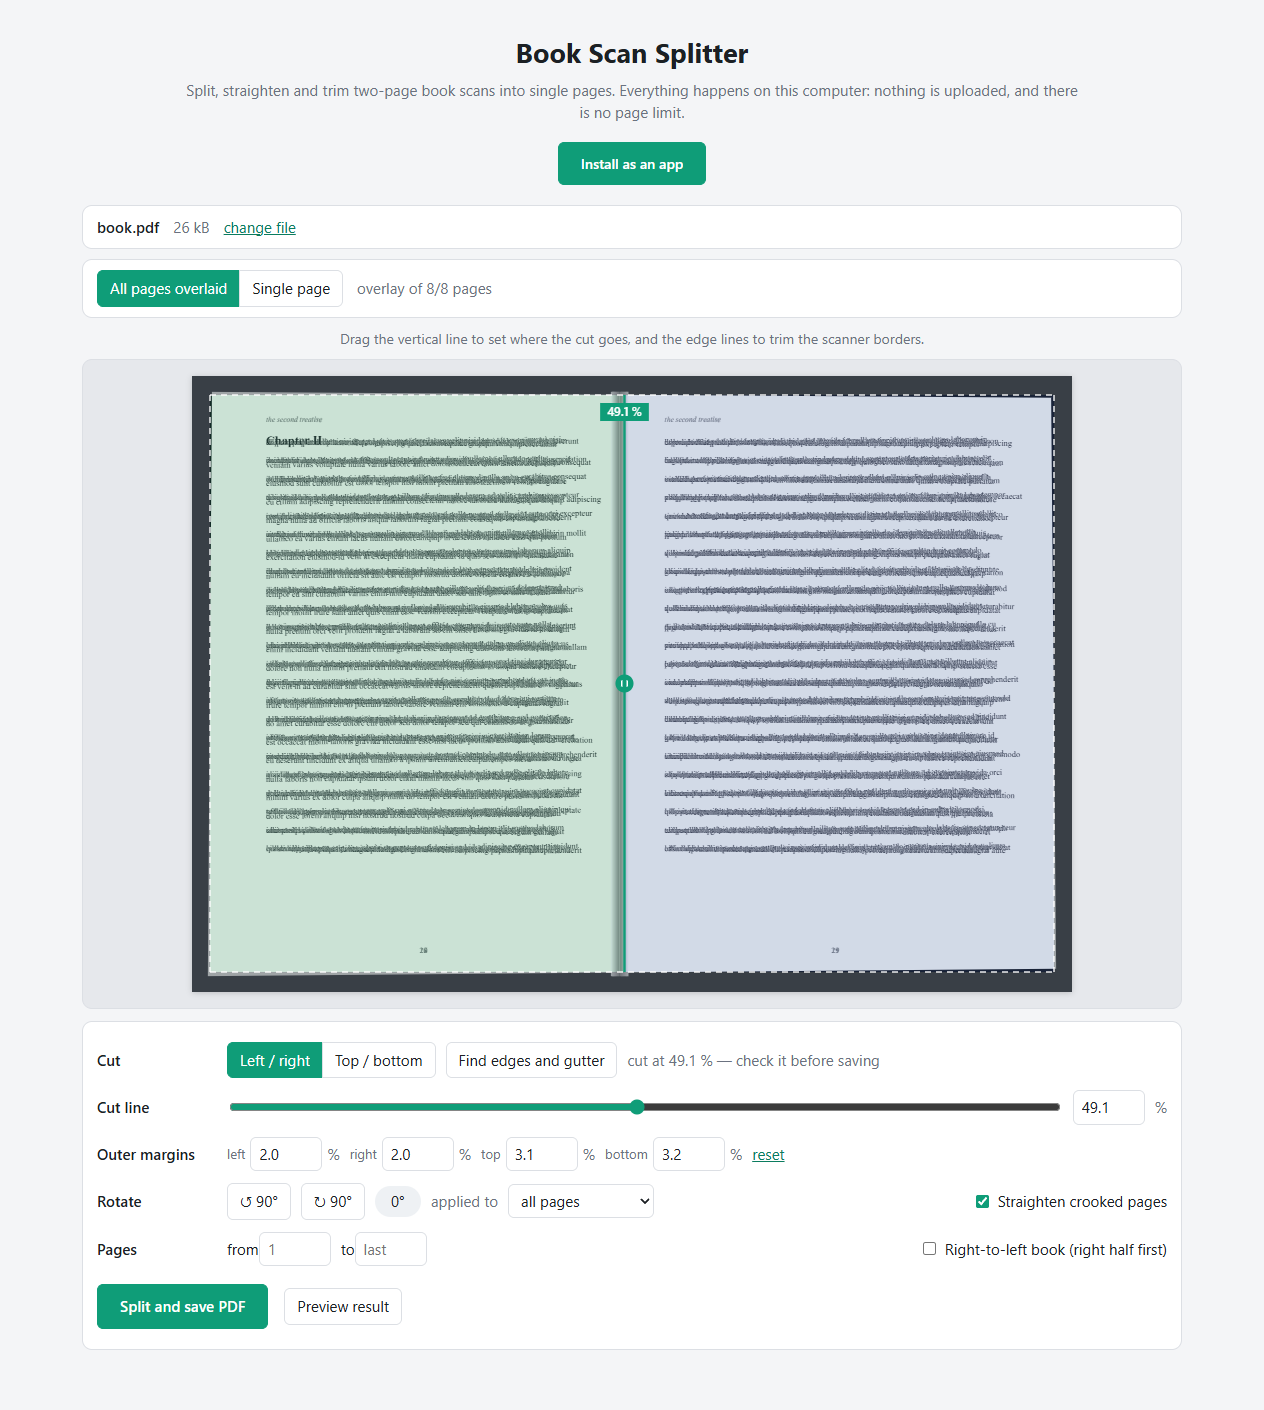
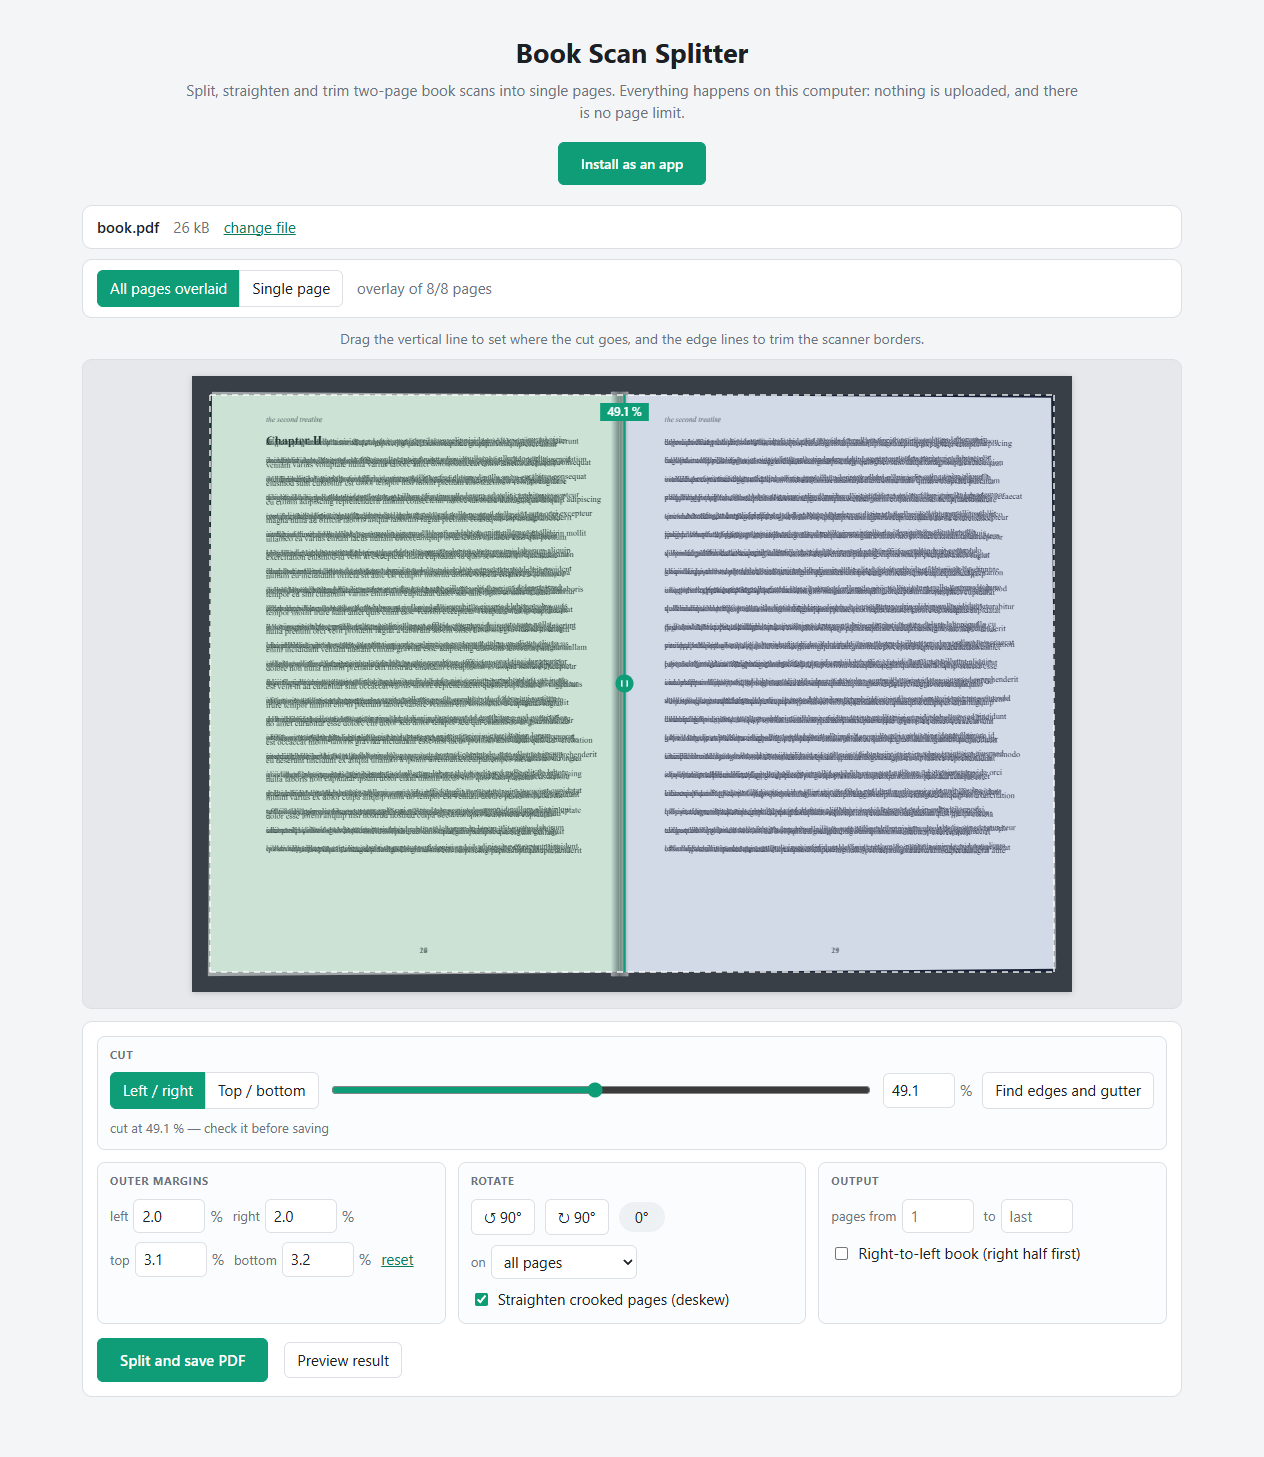
Group the controls instead of stacking one row per setting
Six settings in six full width rows left the panel mostly empty and
pushed two checkboxes to the far right, where they read as belonging to
rows they have nothing to do with. The cut keeps the full width because
its slider wants the room, and the rest sits in three labelled groups
that fill it: outer margins, rotate, output. The straighten checkbox now
names the term people search for, deskew.

diff --git a/index.html b/index.html
@@ -52,54 +52,69 @@
   </div>
 
   <div class="controls">
-    <div class="row">
-      <label>Cut</label>
-      <div class="tabs" id="directionTabs">
-        <button type="button" data-direction="vertical" class="on">Left / right</button>
-        <button type="button" data-direction="horizontal">Top / bottom</button>
-      </div>
-      <button type="button" id="detect">Find edges and gutter</button>
-      <span class="muted" id="detectInfo"></span>
+    <div class="groups">
+      <section class="group span">
+        <h3>Cut</h3>
+        <div class="field">
+          <div class="tabs" id="directionTabs">
+            <button type="button" data-direction="vertical" class="on">Left / right</button>
+            <button type="button" data-direction="horizontal">Top / bottom</button>
+          </div>
+          <input type="range" id="splitRange" min="5" max="95" step="0.1" value="50" aria-label="Cut line">
+          <span class="pair">
+            <input type="number" id="splitPct" min="0" max="100" step="0.1" value="50" aria-label="Cut line percentage">
+            <span class="unit">%</span>
+          </span>
+          <button type="button" id="detect">Find edges and gutter</button>
+        </div>
+        <p class="note muted" id="detectInfo"></p>
+      </section>
+
+      <section class="group">
+        <h3>Outer margins</h3>
+        <div class="field">
+          <span class="pair"><label class="tag" for="mLeft">left</label><input type="number" id="mLeft" min="0" max="45" step="0.1" value="0"><span class="unit">%</span></span>
+          <span class="pair"><label class="tag" for="mRight">right</label><input type="number" id="mRight" min="0" max="45" step="0.1" value="0"><span class="unit">%</span></span>
+        </div>
+        <div class="field">
+          <span class="pair"><label class="tag" for="mTop">top</label><input type="number" id="mTop" min="0" max="45" step="0.1" value="0"><span class="unit">%</span></span>
+          <span class="pair"><label class="tag" for="mBottom">bottom</label><input type="number" id="mBottom" min="0" max="45" step="0.1" value="0"><span class="unit">%</span></span>
+          <button type="button" id="resetGeom" class="link">reset</button>
+        </div>
+      </section>
+
+      <section class="group">
+        <h3>Rotate</h3>
+        <div class="field">
+          <button type="button" id="rotLeft" title="Rotate 90° counter-clockwise">↺ 90°</button>
+          <button type="button" id="rotRight" title="Rotate 90° clockwise">↻ 90°</button>
+          <span class="pill" id="rotInfo">0°</span>
+          <span class="pair"><label class="tag" for="rotScope">on</label>
+            <select id="rotScope">
+              <option value="all">all pages</option>
+              <option value="odd">odd pages only</option>
+              <option value="even">even pages only</option>
+            </select>
+          </span>
+        </div>
+        <div class="field">
+          <label class="check"><input type="checkbox" id="deskew"> Straighten crooked pages (deskew)</label>
+        </div>
+      </section>
+
+      <section class="group">
+        <h3>Output</h3>
+        <div class="field">
+          <span class="pair"><label class="tag" for="rangeFrom">pages from</label><input type="number" id="rangeFrom" min="1" step="1" placeholder="1"></span>
+          <span class="pair"><label class="tag" for="rangeTo">to</label><input type="number" id="rangeTo" min="1" step="1" placeholder="last"></span>
+        </div>
+        <div class="field">
+          <label class="check"><input type="checkbox" id="reverse"> <span id="reverseLabel">Right-to-left book (right half first)</span></label>
+        </div>
+      </section>
     </div>
 
-    <div class="row">
-      <label for="splitPct">Cut line</label>
-      <input type="range" id="splitRange" min="5" max="95" step="0.1" value="50">
-      <input type="number" id="splitPct" min="0" max="100" step="0.1" value="50">
-      <span class="unit">%</span>
-    </div>
-
-    <div class="row margins">
-      <label>Outer margins</label>
-      <span><span class="tag">left</span><input type="number" class="m" id="mLeft" min="0" max="45" step="0.1" value="0"><span class="unit">%</span></span>
-      <span><span class="tag">right</span><input type="number" class="m" id="mRight" min="0" max="45" step="0.1" value="0"><span class="unit">%</span></span>
-      <span><span class="tag">top</span><input type="number" class="m" id="mTop" min="0" max="45" step="0.1" value="0"><span class="unit">%</span></span>
-      <span><span class="tag">bottom</span><input type="number" class="m" id="mBottom" min="0" max="45" step="0.1" value="0"><span class="unit">%</span></span>
-      <button type="button" id="resetGeom" class="link">reset</button>
-    </div>
-
-    <div class="row">
-      <label>Rotate</label>
-      <button type="button" id="rotLeft" title="Rotate 90° counter-clockwise">↺ 90°</button>
-      <button type="button" id="rotRight" title="Rotate 90° clockwise">↻ 90°</button>
-      <span class="pill" id="rotInfo">0°</span>
-      <label for="rotScope" class="sub">applied to</label>
-      <select id="rotScope">
-        <option value="all">all pages</option>
-        <option value="odd">odd pages only</option>
-        <option value="even">even pages only</option>
-      </select>
-      <label class="check"><input type="checkbox" id="deskew"> Straighten crooked pages</label>
-    </div>
-
-    <div class="row">
-      <label for="rangeFrom">Pages</label>
-      <span><span class="tag">from</span><input type="number" id="rangeFrom" min="1" step="1" placeholder="1"></span>
-      <span><span class="tag">to</span><input type="number" id="rangeTo" min="1" step="1" placeholder="last"></span>
-      <label class="check"><input type="checkbox" id="reverse"> <span id="reverseLabel">Right-to-left book (right half first)</span></label>
-    </div>
-
-    <div class="row actions">
+    <div class="actions">
       <button type="button" id="go" class="primary">Split and save PDF</button>
       <button type="button" id="check">Preview result</button>
       <span id="status" class="muted"></span>

diff --git a/style.css b/style.css
@@ -143,22 +143,54 @@ main {
   border: 1px solid var(--line);
   border-radius: 10px;
 }
-.row {
+.groups {
+  display: grid;
+  grid-template-columns: repeat(auto-fit, minmax(300px, 1fr));
+  gap: 12px;
+}
+
+.group {
+  padding: 10px 12px 12px;
+  border: 1px solid var(--line);
+  border-radius: 8px;
+  background: #fbfcfd;
+}
+.group.span { grid-column: 1 / -1; }
+
+.group h3 {
+  margin: 0 0 9px;
+  font-size: 11px;
+  font-weight: 700;
+  letter-spacing: .06em;
+  text-transform: uppercase;
+  color: var(--muted);
+}
+
+.field {
   display: flex;
   align-items: center;
   gap: 10px;
   flex-wrap: wrap;
-  padding: 6px 0;
 }
-.row > label { min-width: 120px; font-weight: 600; }
-.row input[type="range"] { flex: 1; min-width: 200px; accent-color: var(--accent); }
-.row input[type="text"] { flex: 1; min-width: 220px; }
+.field + .field { margin-top: 9px; }
+.field input[type="range"] { flex: 1; min-width: 200px; accent-color: var(--accent); }
+
+.pair { display: inline-flex; align-items: center; gap: 5px; }
+.pair .tag { color: var(--muted); font-size: 13px; }
 .unit { color: var(--muted); }
 
-.margins span { display: inline-flex; align-items: center; gap: 5px; }
-.margins .tag { color: var(--muted); font-size: 13px; }
+label.check { display: inline-flex; align-items: center; gap: 7px; }
+label.check input { accent-color: var(--accent); }
 
-.actions { gap: 16px; padding-top: 12px; }
+.note { margin: 9px 0 0; font-size: 13px; min-height: 1em; }
+
+.actions {
+  display: flex;
+  align-items: center;
+  gap: 16px;
+  flex-wrap: wrap;
+  margin-top: 14px;
+}
 
 .install { margin-top: 18px; padding: 8px 18px; font-size: 14px; }
 
@@ -172,20 +204,6 @@ select {
   background: #fff;
   color: inherit;
 }
-
-.row > label.sub, .row label.check {
-  min-width: 0;
-  font-weight: 400;
-  color: var(--muted);
-}
-.row label.check {
-  display: inline-flex;
-  align-items: center;
-  gap: 6px;
-  color: inherit;
-  margin-left: auto;
-}
-.row label.check input { accent-color: var(--accent); }
 
 .pill {
   min-width: 46px;

diff --git a/sw.js b/sw.js
@@ -3,7 +3,7 @@
  * Bump CACHE whenever one of the files below changes, otherwise installed
  * copies keep serving the old version.
  */
-var CACHE = 'book-scan-splitter-v4';
+var CACHE = 'book-scan-splitter-v5';
 var ASSETS = [
   './',
   './index.html',

diff --git a/README.md b/README.md
@@ -85,7 +85,7 @@ page. The cut line and margins turn with the view, so the cut stays on the same 
 the paper. **Applied to odd or even pages only** fixes the scanners that lay every second
 sheet down the other way round.
 
-**Straighten crooked pages** — measures how far each output page is tilted and turns it
+**Straighten crooked pages (deskew)** — measures how far each output page is tilted and turns it
 back. The measurement is the classic projection profile: the page's ink is rotated
 through candidate angles and the sharpest horizontal profile wins, because straight text
 lines pile up into tall spikes while crooked ones smear across many rows. It runs *after*
